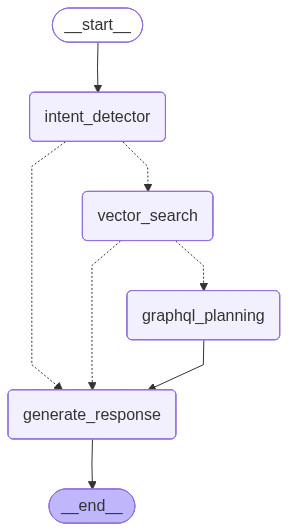
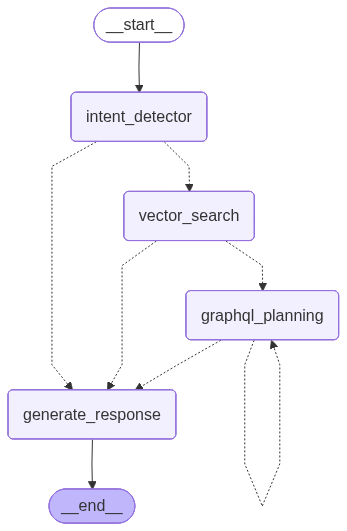
updated graph

diff --git a/services/graphql/client.py b/services/graphql/client.py
@@ -287,11 +287,11 @@ class HasuraClient(GraphQLClientBase):
         
         # Try to get JWT token from env
         self.jwt_token = os.environ.get('USER_JWT_TOKEN')
-        print("heres the jwt token",self.jwt_token)
+        #print("heres the jwt token",self.jwt_token)
         
         # Try to get admin secret from args or env
         self.admin_secret = admin_secret or os.environ.get('HASURA_GRAPHQL_ADMIN_SECRET')
-        print("heres the secret",self.admin_secret)
+        #print("heres the secret",self.admin_secret)
         
         self._HEADERS = {
             "Content-Type": "application/json",